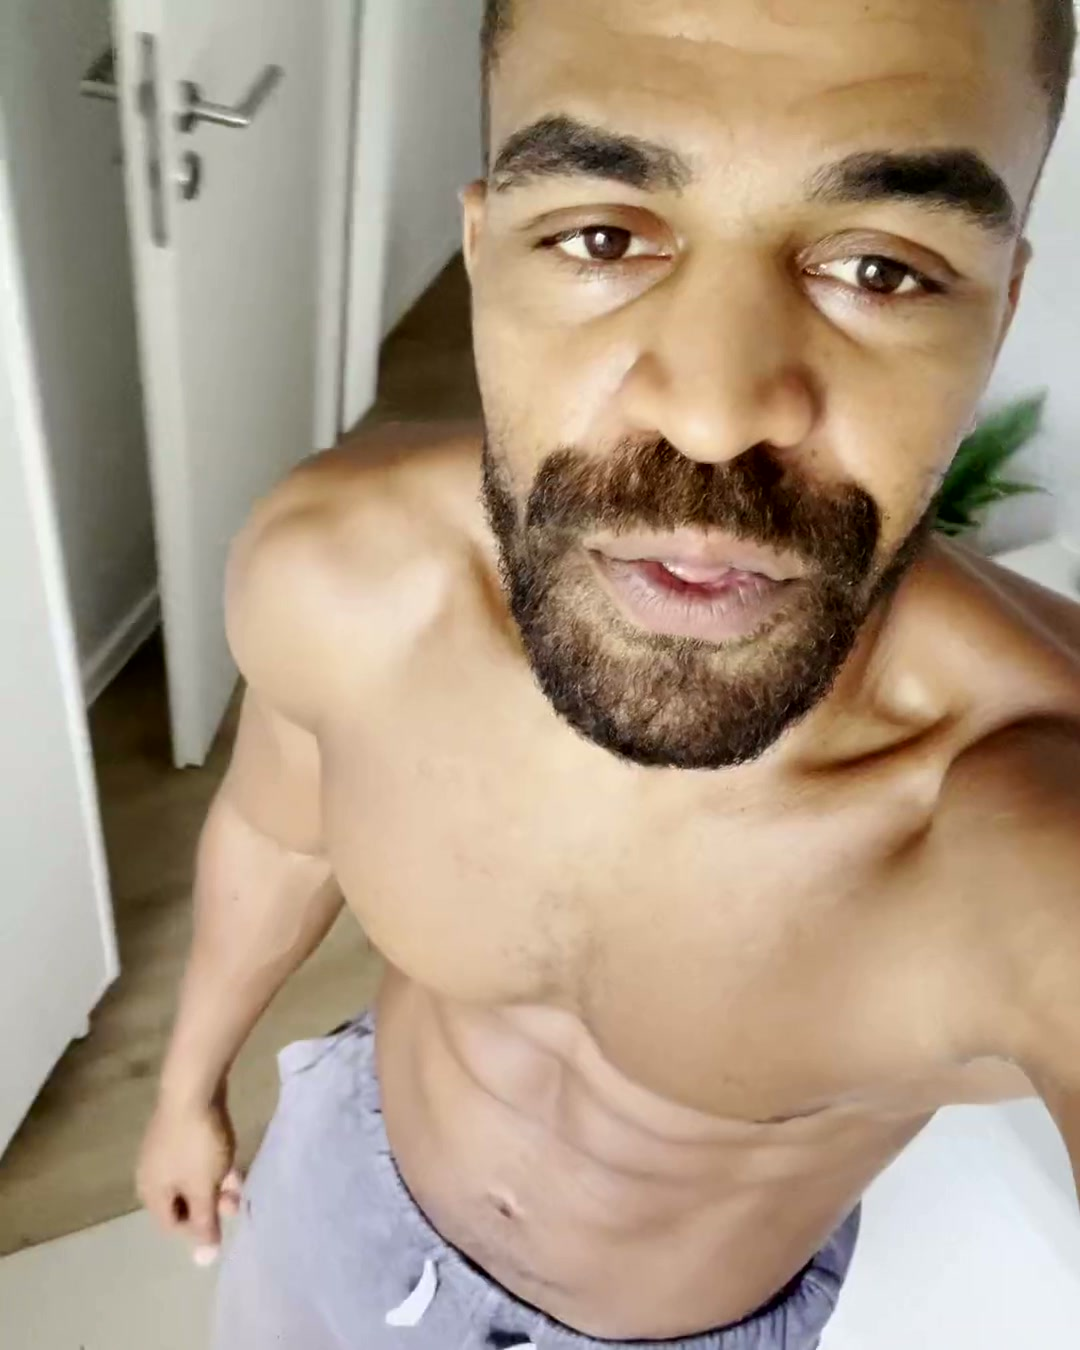
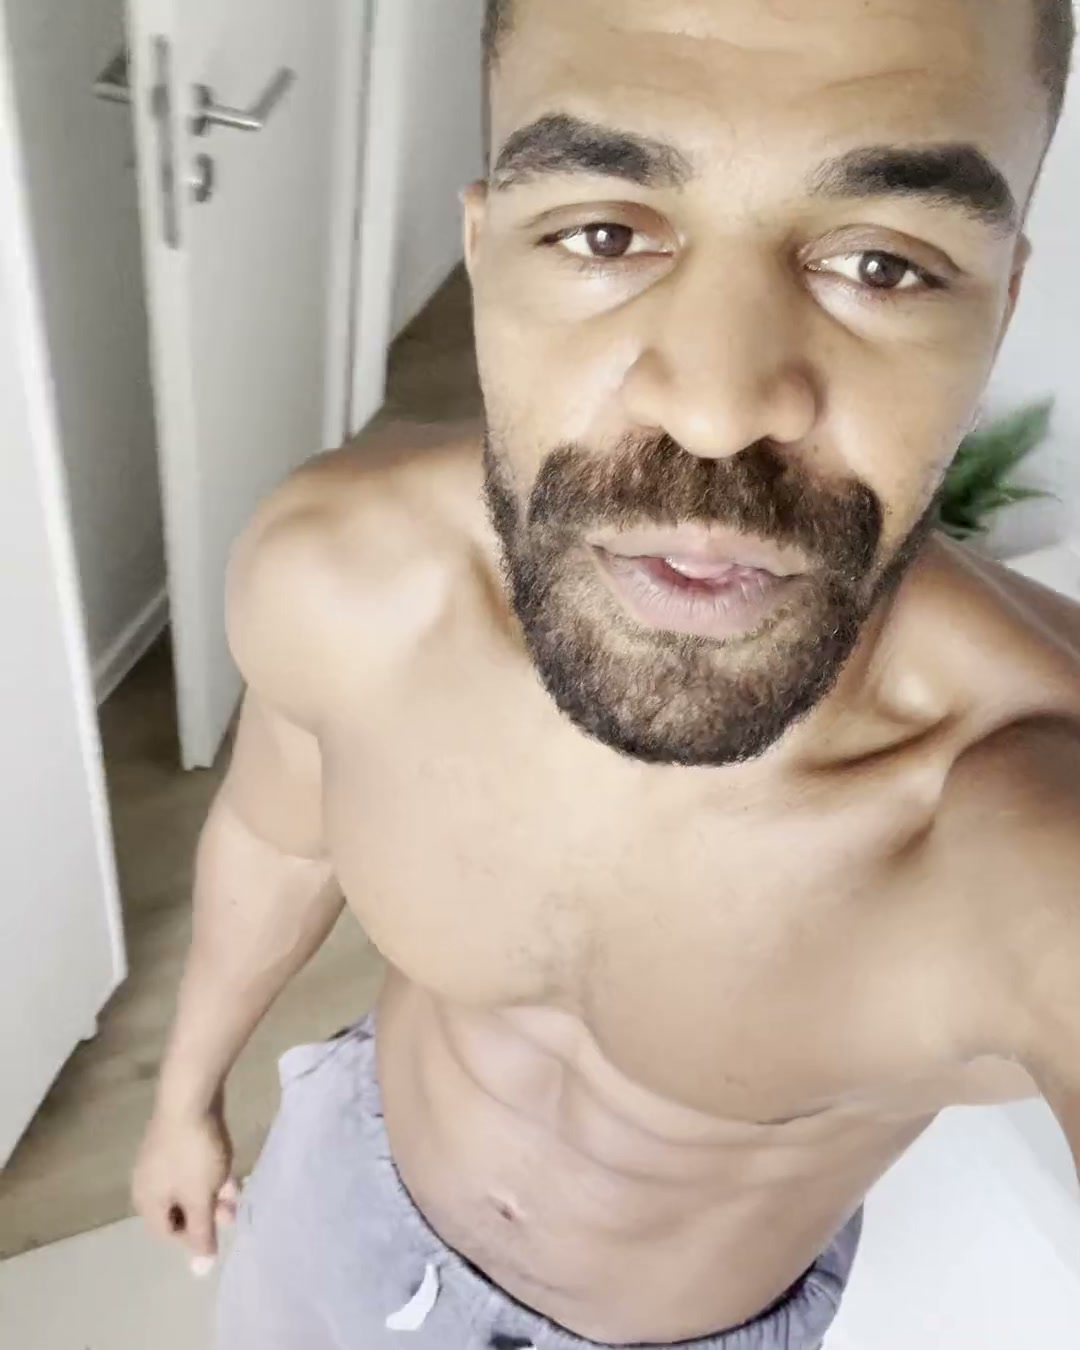
Revert Gabriel to his original clip, ungraded
His video was never the problem — only the still was, and re-grading the clip
to chase it changed the thing that was already right. Back to the original
rendition, poster cut straight from it.

Claude-Session: https://claude.ai/code/session_01LnhmcuRfy1chqdcwdNiDW9

diff --git a/react-app/src/data/testimonialVideos.ts b/react-app/src/data/testimonialVideos.ts
@@ -254,7 +254,7 @@ function urls(base: string) {
 export const TESTIMONIAL_VIDEOS: TestimonialVideo[] = [
   {
     id: 'voice-gabriel',
-    ...urls('voice-gabriel-sdr3'),
+    ...urls('voice-gabriel-full'),
     displayName: 'Gabriel K.',
     badge: 'BETA TESTER',
     // Verbatim. The only editorial act is the em-dash, standing in for the
